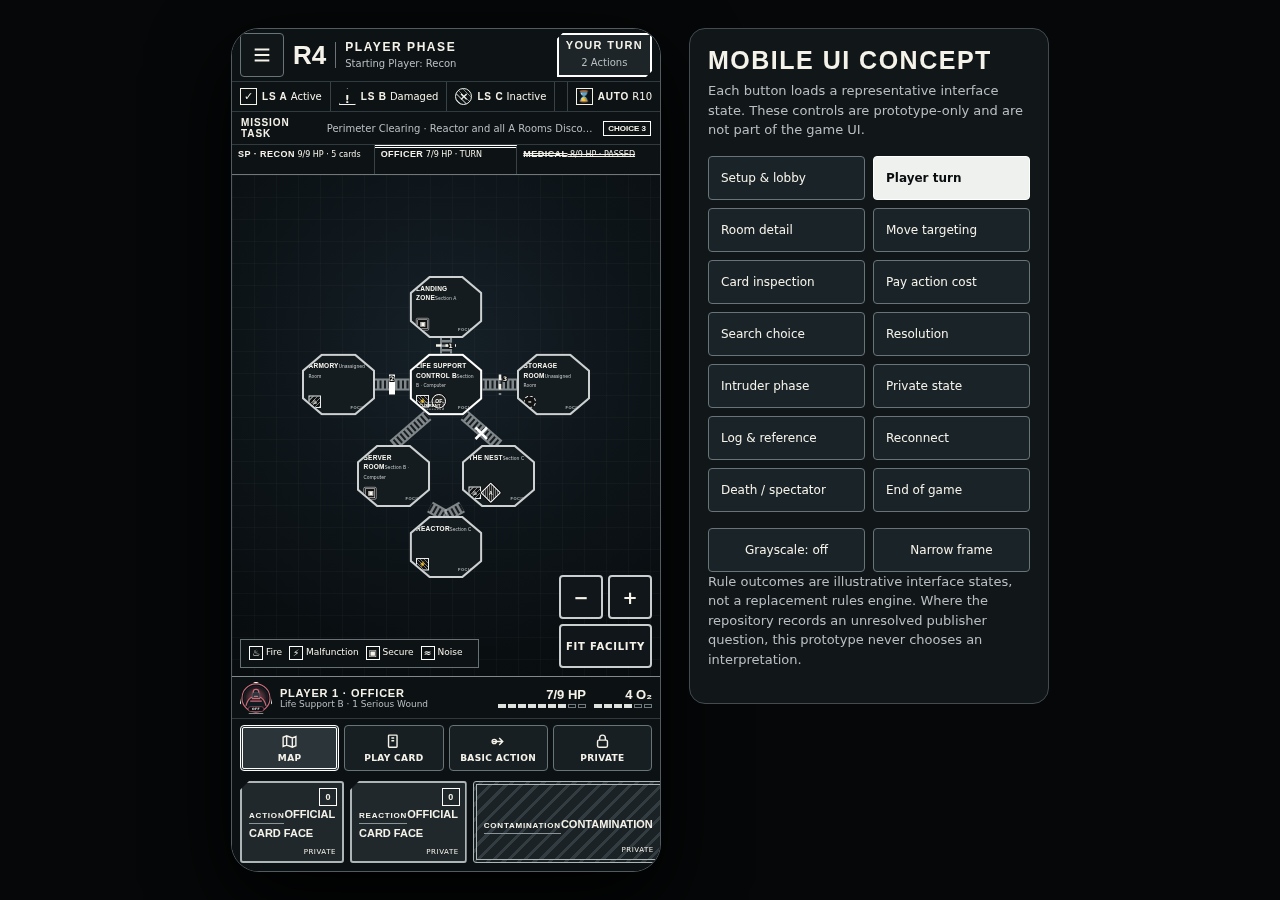
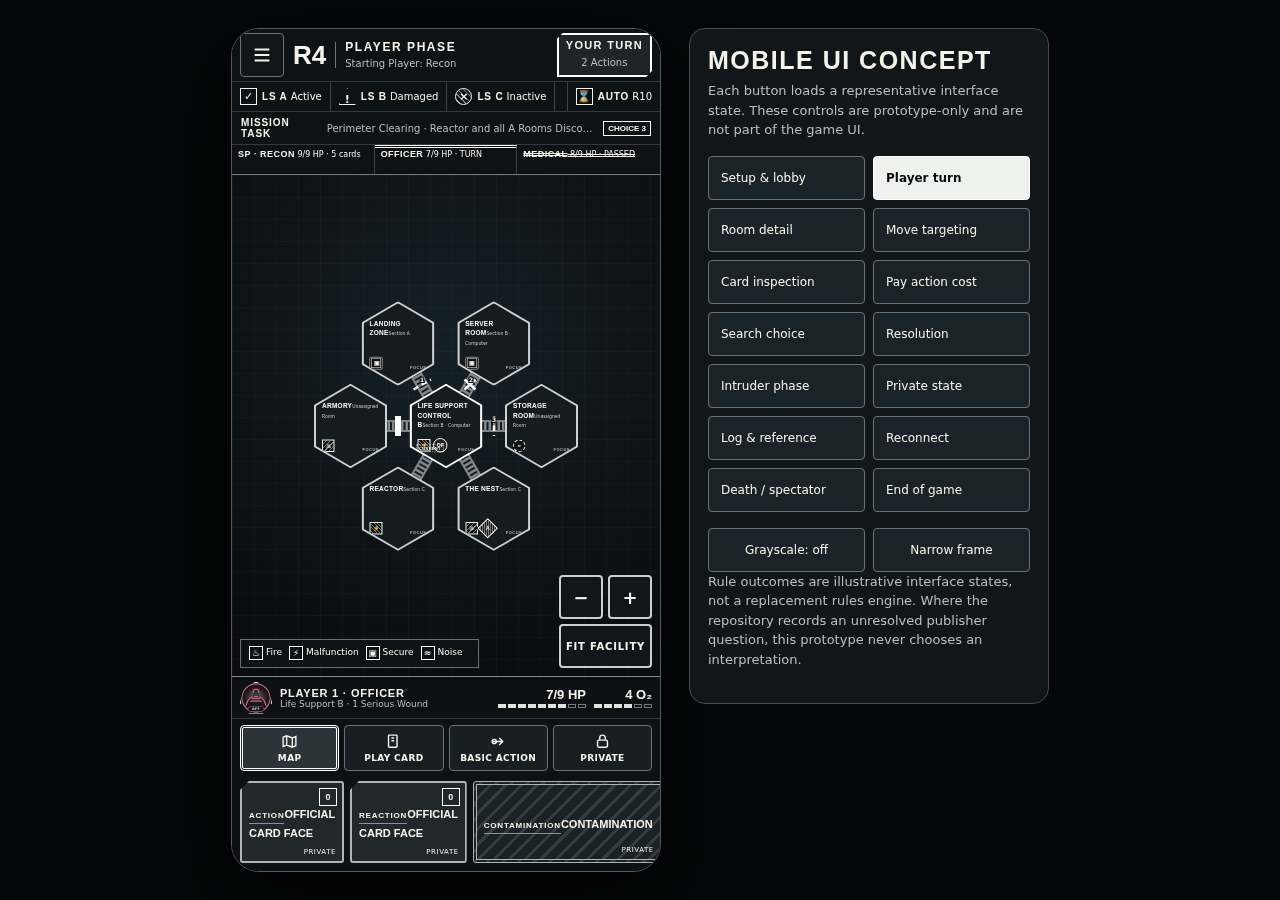
Correct prototype Room geometry to hexagons

Changed region(s): [[0.2188, 0.3111, 0.4688, 0.6533]]

diff --git a/docs/design/prototypes/mobile-first-ui-concept.html b/docs/design/prototypes/mobile-first-ui-concept.html
@@ -32,10 +32,10 @@ button{touch-action:manipulation}.sr-only{position:absolute!important;width:1px;
 .roster-line{min-height:30px;display:grid;grid-template-columns:repeat(3,minmax(0,1fr));border-top:1px solid #313a3e}.public-player{min-width:0;padding:4px 6px;border-right:1px solid #394247;font-size:8px;white-space:nowrap;overflow:hidden;text-overflow:ellipsis}.public-player:last-child{border-right:0}.public-player strong{font:900 9px var(--display);letter-spacing:.05em}.public-player.turn{border-top:3px double #fff;padding-top:1px}.public-player.passed{text-decoration:line-through;text-decoration-style:double}
 .main-stage{position:relative;width:100%;min-width:0;min-height:0;overflow:hidden;background-image:linear-gradient(rgba(255,255,255,.022) 1px,transparent 1px),linear-gradient(90deg,rgba(255,255,255,.022) 1px,transparent 1px);background-size:22px 22px}.map-stage{width:100%;min-width:0;height:100%;display:grid;grid-template-rows:minmax(0,1fr) auto}.map-viewport{position:relative;min-width:0;overflow:hidden;touch-action:none;cursor:grab}.map-viewport.is-dragging{cursor:grabbing}.facility{position:absolute;width:720px;height:620px;left:50%;top:50%;transform:translate(calc(-50% + var(--map-x,0px)),calc(-50% + var(--map-y,0px))) scale(var(--map-scale,.5));transform-origin:50% 50%;transition:transform 180ms ease}.map-viewport.is-dragging .facility,.map-viewport.is-pinching .facility{transition:none}
 .corridor-layer{position:absolute;inset:0;width:100%;height:100%;overflow:visible}.corridor{stroke:#bbc1c2;stroke-width:24;stroke-linecap:butt;opacity:.65}.corridor-core{stroke:#171d20;stroke-width:16;stroke-dasharray:4 5}.corridor-id{fill:#f5f2e9;font:700 12px var(--body);paint-order:stroke;stroke:#07090a;stroke-width:4px}.door-open{stroke:#f5f2e9;stroke-width:5;stroke-dasharray:11 8}.door-closed{stroke:#fff;stroke-width:12}.door-destroyed{stroke:#fff;stroke-width:5}.corridor.noise .corridor-core{stroke-dasharray:1 7}
-.room-shell{position:absolute;width:146px;height:124px;padding:4px;background:#cdd1d1;clip-path:polygon(27% 0,73% 0,100% 27%,100% 73%,73% 100%,27% 100%,0 73%,0 27%)}.room{border:0;width:100%;height:100%;padding:10px 9px;background:#151c20;color:#f8f6ef;clip-path:inherit;display:flex;flex-direction:column;justify-content:space-between;align-items:stretch;text-align:left;position:relative;cursor:pointer}.room::after{content:"FOCUS";position:absolute;right:12px;bottom:8px;font:700 8px var(--display);letter-spacing:.12em;color:#aeb6b9}.room:hover{background:#202a2f}.room-name{font:800 13px/1.05 var(--display);text-transform:uppercase;letter-spacing:.04em}.room-type{font-size:9px;color:#c6cbcd}.room-markers{display:flex;gap:5px;align-items:center;min-height:28px}.marker{min-width:25px;height:25px;border:2px solid #e9ece9;display:grid;place-items:center;padding:0 4px;font:900 11px var(--display);background:#111}.marker.fire{background:repeating-linear-gradient(135deg,#111 0 4px,#798184 4px 6px)}.marker.malfunction{background:repeating-linear-gradient(45deg,#111 0 4px,#727a7e 4px 5px),repeating-linear-gradient(-45deg,transparent 0 4px,#727a7e 4px 5px)}.marker.secure{border:4px double #fff;border-radius:3px}.marker.noise{border-radius:50%;border-style:dashed}.occupant{min-width:29px;height:29px;border-radius:50%;border:2px solid #fff;display:grid;place-items:center;background:#222;font:900 10px var(--display);box-shadow:0 0 0 2px #111}.occupant.intruder{border-radius:2px;transform:rotate(45deg);background:repeating-linear-gradient(45deg,#1a1a1a 0 3px,#777 3px 4px)}.occupant.intruder span{transform:rotate(-45deg)}
-.room-shell.current{background:#fff;filter:drop-shadow(0 0 8px rgba(255,255,255,.6))}.room-shell.current .room::before{content:"CURRENT";position:absolute;left:10px;bottom:8px;border:1px dashed #fff;padding:2px 4px;font:800 8px var(--display);letter-spacing:.08em}.room-shell.target{background:#fff;filter:drop-shadow(0 0 10px #fff)}.room-shell.target .room{background:repeating-linear-gradient(135deg,#182024 0 10px,#343f44 10px 13px)}.room-shell.target .room::after{content:"MOVE";font-size:12px;color:#fff;border:1px solid #fff;padding:3px}.room-shell.invalid .room{cursor:default}.room-shell.invalid .room::after{content:""}.room-shell.unrevealed .room-name{font-size:19px;text-align:center}.room-shell.unrevealed .room::after{content:"UNREVEALED"}
-.room-detail{display:none;font-size:9px;line-height:1.2;color:#fff;margin-top:4px}.concept-app[data-scene="room"] .room-shell.focused{width:190px;height:164px;z-index:2;filter:drop-shadow(0 0 10px rgba(255,255,255,.6))}.concept-app[data-scene="room"] .room-shell.focused .room-detail{display:block}.concept-app[data-scene="room"] .room-shell.focused .room-name{font-size:16px}.concept-app[data-scene="room"] .room-shell.focused .room::after{content:"FOCUSED";border:1px solid #fff;padding:2px 4px;color:#fff}
-.room[data-room="landing"]{ }.room-shell.r-landing{left:287px;top:10px}.room-shell.r-armory{left:72px;top:165px}.room-shell.r-life{left:287px;top:165px}.room-shell.r-storage{left:502px;top:165px}.room-shell.r-server{left:182px;top:348px}.room-shell.r-nest{left:392px;top:348px}.room-shell.r-reactor{left:287px;top:490px}
+.room-shell{position:absolute;width:146px;height:168.6px;padding:4px;background:#cdd1d1;clip-path:polygon(50% 0,100% 25%,100% 75%,50% 100%,0 75%,0 25%)}.room{border:0;width:100%;height:100%;padding:29px 12px 27px;background:#151c20;color:#f8f6ef;clip-path:inherit;display:flex;flex-direction:column;justify-content:space-between;align-items:stretch;text-align:left;position:relative;cursor:pointer}.room::after{content:"FOCUS";position:absolute;right:12px;bottom:28px;font:700 8px var(--display);letter-spacing:.12em;color:#aeb6b9}.room:hover{background:#202a2f}.room-name{font:800 13px/1.05 var(--display);text-transform:uppercase;letter-spacing:.04em}.room-type{font-size:9px;color:#c6cbcd}.room-markers{display:flex;gap:5px;align-items:center;min-height:28px}.marker{min-width:25px;height:25px;border:2px solid #e9ece9;display:grid;place-items:center;padding:0 4px;font:900 11px var(--display);background:#111}.marker.fire{background:repeating-linear-gradient(135deg,#111 0 4px,#798184 4px 6px)}.marker.malfunction{background:repeating-linear-gradient(45deg,#111 0 4px,#727a7e 4px 5px),repeating-linear-gradient(-45deg,transparent 0 4px,#727a7e 4px 5px)}.marker.secure{border:4px double #fff;border-radius:3px}.marker.noise{border-radius:50%;border-style:dashed}.occupant{min-width:29px;height:29px;border-radius:50%;border:2px solid #fff;display:grid;place-items:center;background:#222;font:900 10px var(--display);box-shadow:0 0 0 2px #111}.occupant.intruder{border-radius:2px;transform:rotate(45deg);background:repeating-linear-gradient(45deg,#1a1a1a 0 3px,#777 3px 4px)}.occupant.intruder span{transform:rotate(-45deg)}
+.room-shell.current{background:#fff;filter:drop-shadow(0 0 8px rgba(255,255,255,.6))}.room-shell.current .room::before{content:"CURRENT";position:absolute;left:10px;bottom:28px;border:1px dashed #fff;padding:2px 4px;font:800 8px var(--display);letter-spacing:.08em}.room-shell.target{background:#fff;filter:drop-shadow(0 0 10px #fff)}.room-shell.target .room{background:repeating-linear-gradient(135deg,#182024 0 10px,#343f44 10px 13px)}.room-shell.target .room::after{content:"MOVE";font-size:12px;color:#fff;border:1px solid #fff;padding:3px}.room-shell.invalid .room{cursor:default}.room-shell.invalid .room::after{content:""}.room-shell.unrevealed .room-name{font-size:19px;text-align:center}.room-shell.unrevealed .room::after{content:"UNREVEALED"}
+.room-detail{display:none;font-size:9px;line-height:1.2;color:#fff;margin-top:4px}.concept-app[data-scene="room"] .room-shell.focused{width:190px;height:219.4px;z-index:2;filter:drop-shadow(0 0 10px rgba(255,255,255,.6))}.concept-app[data-scene="room"] .room-shell.focused .room-detail{display:block}.concept-app[data-scene="room"] .room-shell.focused .room-name{font-size:16px}.concept-app[data-scene="room"] .room-shell.focused .room::after{content:"FOCUSED";border:1px solid #fff;padding:2px 4px;color:#fff}
+.room[data-room="landing"]{ }.room-shell.r-landing{left:191px;top:60.7px}.room-shell.r-server{left:382.5px;top:60.7px}.room-shell.r-armory{left:96px;top:225.7px}.room-shell.r-life{left:287px;top:225.7px}.room-shell.r-storage{left:478px;top:225.7px}.room-shell.r-reactor{left:191px;top:391.1px}.room-shell.r-nest{left:382.5px;top:391.1px}
 .map-tools{position:absolute;right:8px;bottom:8px;display:grid;grid-template-columns:44px 44px;gap:5px;z-index:4}.zoom-button{padding:0;background:#101619;border:2px solid #c9cecf;font-weight:900;font-size:18px}.zoom-button.fit{grid-column:span 2;font-size:10px;letter-spacing:.08em}.map-legend{position:absolute;left:8px;bottom:8px;background:#0d1214;border:1px solid #687176;padding:6px 8px;font-size:9px;line-height:1.55}.map-legend span{display:inline-flex;align-items:center;gap:3px;margin-right:7px}.map-legend b{display:inline-grid;place-items:center;width:14px;height:14px;border:1px solid #fff}
 .context-band{border-top:1px solid #7c8589;background:#171f23;padding:9px;min-height:60px;display:grid;grid-template-columns:minmax(0,1fr) auto;gap:10px;align-items:center}.context-band[hidden]{display:none}.context-copy strong{font:800 12px var(--display);letter-spacing:.08em;text-transform:uppercase;display:block}.context-copy span{font-size:11px;line-height:1.3;color:var(--muted);display:block;margin-top:3px}.context-actions{display:flex;gap:6px}.primary-button,.secondary-button{min-height:44px;font-size:11px;font-weight:800;text-transform:uppercase;letter-spacing:.06em}.primary-button{background:#f1eee4;color:#0a0d0f;border-color:#fff}.secondary-button{background:#151b1e}.context-band.targeting{border-top:4px double #fff;background:repeating-linear-gradient(135deg,#171f23 0 12px,#20292d 12px 14px)}
 .command-dock{width:100%;min-width:0;padding-bottom:var(--safe-bottom);background:#0c1113;border-top:1px solid #81898d}.vitals-row{min-width:0;min-height:42px;display:grid;grid-template-columns:minmax(0,1fr) auto;align-items:center;padding:4px 8px;border-bottom:1px solid #31393d;gap:7px}.identity{display:flex;align-items:center;gap:8px;min-width:0}.portrait{width:32px;height:32px;object-fit:cover;border:1px solid #fff;clip-path:polygon(50% 0,90% 20%,100% 68%,72% 100%,28% 100%,0 68%,10% 20%)}.identity-text{min-width:0}.identity-text strong,.identity-text span{display:block;white-space:nowrap;overflow:hidden;text-overflow:ellipsis}.identity-text strong{font:800 11px var(--display);letter-spacing:.07em}.identity-text span{font-size:9px;color:var(--muted)}.vitals{display:flex;gap:8px}.vital{font-size:9px;text-align:right}.vital strong{display:block;font:900 13px var(--display)}.segments{display:flex;gap:2px;margin-top:2px}.segments i{display:block;width:8px;height:4px;background:#dfe3df}.segments i.empty{background:transparent;border:1px solid #727a7d}
@@ -89,23 +89,22 @@ const icons = {
   private:'<svg viewBox="0 0 24 24" aria-hidden="true"><rect x="5" y="10" width="14" height="10" rx="2"/><path d="M8 10V7a4 4 0 0 1 8 0v3"/></svg>'
 };
 const roomData = [
-  {id:'landing',cls:'r-landing',name:'Landing Zone',type:'Section A',markers:'<span class="marker secure" title="Secure">▣</span>',focus:{x:0,y:210}},
-  {id:'armory',cls:'r-armory',name:'Armory',type:'Unassigned Room',markers:'<span class="marker fire" title="Fire">♨</span>',focus:{x:175,y:65}},
-  {id:'life',cls:'r-life',name:'Life Support Control B',type:'Section B · Computer',markers:'<span class="marker malfunction" title="Malfunction">⚡</span><span class="occupant" title="Officer">OF</span>',current:true,detail:'Use Room: resolve the printed Life Support Control B effect. Cost: discard 2 Action cards.',focus:{x:0,y:65}},
-  {id:'storage',cls:'r-storage',name:'Storage Room',type:'Unassigned Room',markers:'<span class="marker noise" title="Noise marker">≈</span>',focus:{x:-175,y:65}},
-  {id:'server',cls:'r-server',name:'Server Room',type:'Section B · Computer',markers:'<span class="marker secure" title="Secure">▣</span>',focus:{x:90,y:-105}},
-  {id:'nest',cls:'r-nest',name:'The Nest',type:'Section C',markers:'<span class="marker fire" title="Fire">♨</span><span class="occupant intruder" title="Adult Intruder"><span>A</span></span>',focus:{x:-90,y:-105}},
-  {id:'reactor',cls:'r-reactor',name:'Reactor',type:'Section C',markers:'<span class="marker malfunction" title="Malfunction">⚡</span>',focus:{x:0,y:-215}}
+  {id:'landing',cls:'r-landing',name:'Landing Zone',type:'Section A',markers:'<span class="marker secure" title="Secure">▣</span>',focus:{x:80,y:132}},
+  {id:'armory',cls:'r-armory',name:'Armory',type:'Unassigned Room',markers:'<span class="marker fire" title="Fire">♨</span>',focus:{x:153,y:0}},
+  {id:'life',cls:'r-life',name:'Life Support Control B',type:'Section B · Computer',markers:'<span class="marker malfunction" title="Malfunction">⚡</span><span class="occupant" title="Officer">OF</span>',current:true,detail:'Use Room: resolve the printed Life Support Control B effect. Cost: discard 2 Action cards.',focus:{x:0,y:0}},
+  {id:'storage',cls:'r-storage',name:'Storage Room',type:'Unassigned Room',markers:'<span class="marker noise" title="Noise marker">≈</span>',focus:{x:-153,y:0}},
+  {id:'server',cls:'r-server',name:'Server Room',type:'Section B · Computer',markers:'<span class="marker secure" title="Secure">▣</span>',focus:{x:-80,y:132}},
+  {id:'nest',cls:'r-nest',name:'The Nest',type:'Section C',markers:'<span class="marker fire" title="Fire">♨</span><span class="occupant intruder" title="Adult Intruder"><span>A</span></span>',focus:{x:-80,y:-132}},
+  {id:'reactor',cls:'r-reactor',name:'Reactor',type:'Section C',markers:'<span class="marker malfunction" title="Malfunction">⚡</span>',focus:{x:80,y:-132}}
 ];
 const corridors = `<svg class="corridor-layer" viewBox="0 0 720 620" aria-hidden="true">
-  <g><path class="corridor" d="M360 134V165"/><path class="corridor-core" d="M360 134V165"/><path class="door-open" d="M340 149h40"/>
-  <path class="corridor" d="M218 227H287"/><path class="corridor-core" d="M218 227H287"/><path class="door-closed" d="M252 207v40"/>
-  <path class="corridor" d="M433 227H502"/><path class="corridor-core" d="M433 227H502"/><path class="door-open" d="M468 207v40"/>
-  <path class="corridor" d="M323 289 255 348"/><path class="corridor-core" d="M323 289 255 348"/>
-  <path class="corridor" d="M397 289 465 348"/><path class="corridor-core" d="M397 289 465 348"/><path class="door-destroyed" d="m419 313 23 23m0-23-23 23"/>
-  <path class="corridor" d="M328 472 360 490"/><path class="corridor-core" d="M328 472 360 490"/>
-  <path class="corridor" d="M392 472 360 490"/><path class="corridor-core" d="M392 472 360 490"/></g>
-  <text x="365" y="154" class="corridor-id">1</text><text x="248" y="220" class="corridor-id">2</text><text x="474" y="220" class="corridor-id">3</text>
+  <g><path class="corridor" data-direction="NW" d="M360 310 264 145"/><path class="corridor-core" d="M360 310 264 145"/><path class="door-open" d="M295 237 330 217"/>
+  <path class="corridor" data-direction="NE" d="M360 310 456 145"/><path class="corridor-core" d="M360 310 456 145"/><path class="door-destroyed" d="m397 217 22 20m-22 0 22-20"/>
+  <path class="corridor" data-direction="E" d="M360 310H551"/><path class="corridor-core" d="M360 310H551"/><path class="door-open" d="M456 290v40"/>
+  <path class="corridor" data-direction="SE" d="M360 310 456 475"/><path class="corridor-core" d="M360 310 456 475"/>
+  <path class="corridor" data-direction="SW" d="M360 310 264 475"/><path class="corridor-core" d="M360 310 264 475"/>
+  <path class="corridor" data-direction="W" d="M360 310H169"/><path class="corridor-core" d="M360 310H169"/><path class="door-closed" d="M264 290v40"/></g>
+  <text x="308" y="222" class="corridor-id">1</text><text x="406" y="222" class="corridor-id">2</text><text x="452" y="302" class="corridor-id">3</text>
 </svg>`;
 function statusHTML(scene){
   if(scene==='setup'||scene==='reconnect') return '';

diff --git a/docs/qa/mobile_concept_qa.py b/docs/qa/mobile_concept_qa.py
@@ -183,6 +183,72 @@ async def semantic_and_interaction_checks(browser):
     forbidden_public = [term for term in ("Contamination", "Backpack", "Objective", "Action card") if term.lower() in non_color["roster"].lower()]
     record("Public roster is privacy-safe", not forbidden_public and "cards" in non_color["roster"], f"forbidden={forbidden_public}; roster={non_color['roster']}")
 
+    # Room geometry is a rules-fidelity invariant, not a decorative choice. Check
+    # the rendered polygon, regular pointy-top proportions, six axes, and the
+    # visible space reserved for Corridors between adjacent hex edges.
+    geometry = await page.evaluate(r"""() => {
+      const shells = [...document.querySelectorAll('.room-shell')];
+      const expectedPoints = [[50,0],[100,25],[100,75],[50,100],[0,75],[0,25]];
+      const parsePolygon = value => {
+        const body = value.match(/^polygon\((.*)\)$/)?.[1] || '';
+        return body.split(',').map(pair => pair.trim().split(/\s+/).map(v => parseFloat(v)));
+      };
+      const polygons = shells.map(shell => parsePolygon(getComputedStyle(shell).clipPath));
+      const exactPointyHexes = polygons.every(points =>
+        points.length === 6 && points.every((point, i) =>
+          point.length === 2 && point.every((value, axis) => Math.abs(value - expectedPoints[i][axis]) < .01)
+        )
+      );
+      const shellRect = shells[0].getBoundingClientRect();
+      const ratio = shellRect.width / shellRect.height;
+      const directionNames = [...document.querySelectorAll('.corridor[data-direction]')]
+        .map(path => path.dataset.direction).sort();
+      const center = document.querySelector('.r-life').getBoundingClientRect();
+      const centerPoint = {x:center.left + center.width/2, y:center.top + center.height/2};
+      const neighbors = {NW:'.r-landing',NE:'.r-server',E:'.r-storage',SE:'.r-nest',SW:'.r-reactor',W:'.r-armory'};
+      const expectedAngles = {NW:-120,NE:-60,E:0,SE:60,SW:120,W:180};
+      const axes = Object.entries(neighbors).map(([direction, selector]) => {
+        const rect = document.querySelector(selector).getBoundingClientRect();
+        const dx = rect.left + rect.width/2 - centerPoint.x;
+        const dy = rect.top + rect.height/2 - centerPoint.y;
+        let angle = Math.atan2(dy, dx) * 180 / Math.PI;
+        if (direction === 'W' && angle < 0) angle += 360;
+        return {
+          direction,
+          angle,
+          expected:expectedAngles[direction],
+          gap:Math.hypot(dx,dy) - shellRect.width
+        };
+      });
+      return {polygons, exactPointyHexes, ratio, directionNames, axes};
+    }""")
+    expected_directions = ["E", "NE", "NW", "SE", "SW", "W"]
+    record(
+        "Every Room boundary has six pointy-top vertices",
+        geometry["exactPointyHexes"] and all(len(points) == 6 for points in geometry["polygons"]),
+        f"polygons={geometry['polygons']}",
+    )
+    record(
+        "Room proportions form regular pointy-top hexagons",
+        abs(geometry["ratio"] - (3 ** 0.5 / 2)) < 0.01,
+        f"width/height={geometry['ratio']:.5f}; expected={3 ** 0.5 / 2:.5f}",
+    )
+    record(
+        "Corridors use exactly the six canonical directions",
+        geometry["directionNames"] == expected_directions,
+        f"directions={geometry['directionNames']}",
+    )
+    record(
+        "Neighbor Rooms align to the six hex axes",
+        all(abs(axis["angle"] - axis["expected"]) < 0.25 for axis in geometry["axes"]),
+        f"axes={geometry['axes']}",
+    )
+    record(
+        "All six Room edges preserve visible Corridor gaps",
+        all(axis["gap"] >= 20 for axis in geometry["axes"]),
+        f"gaps={[round(axis['gap'], 2) for axis in geometry['axes']]}",
+    )
+
     # Room focus: choosing Armory must focus Armory without moving the Character.
     await page.locator('[data-room="armory"]').click()
     await page.wait_for_timeout(80)

diff --git a/docs/design/mobile-first-ui-report.md b/docs/design/mobile-first-ui-report.md
@@ -14,7 +14,7 @@ This report documents a complete mobile-first UI concept for a 100%-faithful dig
 
 Automated QA results are at:
 
-`docs/qa/mobile_concept_qa.py` (14 scenes × 6 viewport classes plus semantic and interaction checks; latest run: 369 passed, 0 failed, 0 warnings)
+`docs/qa/mobile_concept_qa.py` (14 scenes × 6 viewport classes plus semantic and interaction checks; latest run: 374 passed, 0 failed, 0 warnings)
 
 Earlier design documents — `mobile-information-classification.md` and `mobile-tactical-map-interaction.md` — established the information architecture and map interaction model. This report synthesizes those into the complete UI concept and adds the remaining surfaces, flows, and citations.
 
@@ -160,6 +160,8 @@ The concept uses a three-zone vertical layout that adapts by scene:
 
 The map is the dominant interactive surface. It uses semantic zoom (three levels) as specified in `mobile-tactical-map-interaction.md`:
 
+**Room-geometry fidelity invariant:** every Room is a regular pointy-top hexagon with exactly six edge directions: NE, E, SE, SW, W, and NW. The prototype preserves visible space at all six edges for possible Corridors. Hex proximity never invents adjacency; only a legal Corridor makes a destination reachable. Octagonal or eight-direction Room renderings are fidelity defects. See `docs/rules/00-foundations.md` FND-005.
+
 - **Facility Overview** (< ~72 px Room size): full topology, Security, Fire, Malfunction, Characters, Robot, Corridors, Doors, Noise, Intruders, Hits, legal targets. Room prose removed.
 - **Tactical Neighborhood** (~72–150 px): selected Room plus connected Corridors and neighbors. Room name, icons, function summary, statuses, occupants, available actions.
 - **Room Detail** (> ~150 px): full Room function, every status and occupant, complete Corridor info. No separate modal.
@@ -196,7 +198,7 @@ When a decision requires the player's full attention, the map is replaced by a t
 ### 3.4 Command dock
 
 **Elements (top to bottom):**
-1. **Vitals row:** Character portrait (octagonal clip-path) + player name + Character name + active wound modifiers → Health (number + segment bar) + Oxygen (number + segment bar).
+1. **Vitals row:** Character portrait (faceted clip-path) + player name + Character name + active wound modifiers → Health (number + segment bar) + Oxygen (number + segment bar).
 2. **Action row:** Four buttons — Map, Play card, Basic action, Private. The active button has a double-border outline.
 3. **Hand rail:** Horizontally scrollable private hand cards. Each production card shows its exact official face, type, name, and cost. Contamination cards use hatched fill and double borders to distinguish without color. The structural prototype deliberately uses “Official card face” placeholders where verified face transcription is not yet present; it does not invent replacement card names or effects.
 
@@ -416,7 +418,7 @@ The user's core requirement: "if this were viewed on a black and white screen, i
 
 **Latest verified command:** `python3 docs/qa/mobile_concept_qa.py`
 
-**Result: 369 passed, 0 failed, 0 warnings across 84 scene/viewport combinations.**
+**Result: 374 passed, 0 failed, 0 warnings across 84 scene/viewport combinations.**
 
 ### Viewport matrix
 
@@ -437,6 +439,7 @@ For every combination, the harness verifies scene construction, absence of page-
 |---|---|---|
 | Non-color state contract | Life Support words/symbols; Fire hatch; Malfunction crosshatch; Secure double border; Noise dashed border; Current/MOVE labels; numeric segmented vitals; labeled, double-border Contamination | PASS |
 | Public roster privacy | Total hand count is present; private composition, Backpack, and Objective terms are absent | PASS |
+| Room geometry | Every rendered Room has the canonical six-vertex pointy-top polygon and regular-hex ratio; neighbors and Corridors use only NE/E/SE/SW/W/NW axes; every edge retains visible Corridor spacing | PASS |
 | Room focus | Tapping Armory focuses Armory while the Officer remains in Life Support Control B | PASS |
 | Legal targeting | Exactly the two fixture-legal connected Rooms are interactive; all invalid Rooms are out of focus order and have no action data | PASS |
 | Card inspection | A hand card opens the private card-inspection state instead of acting as a dead control | PASS |
